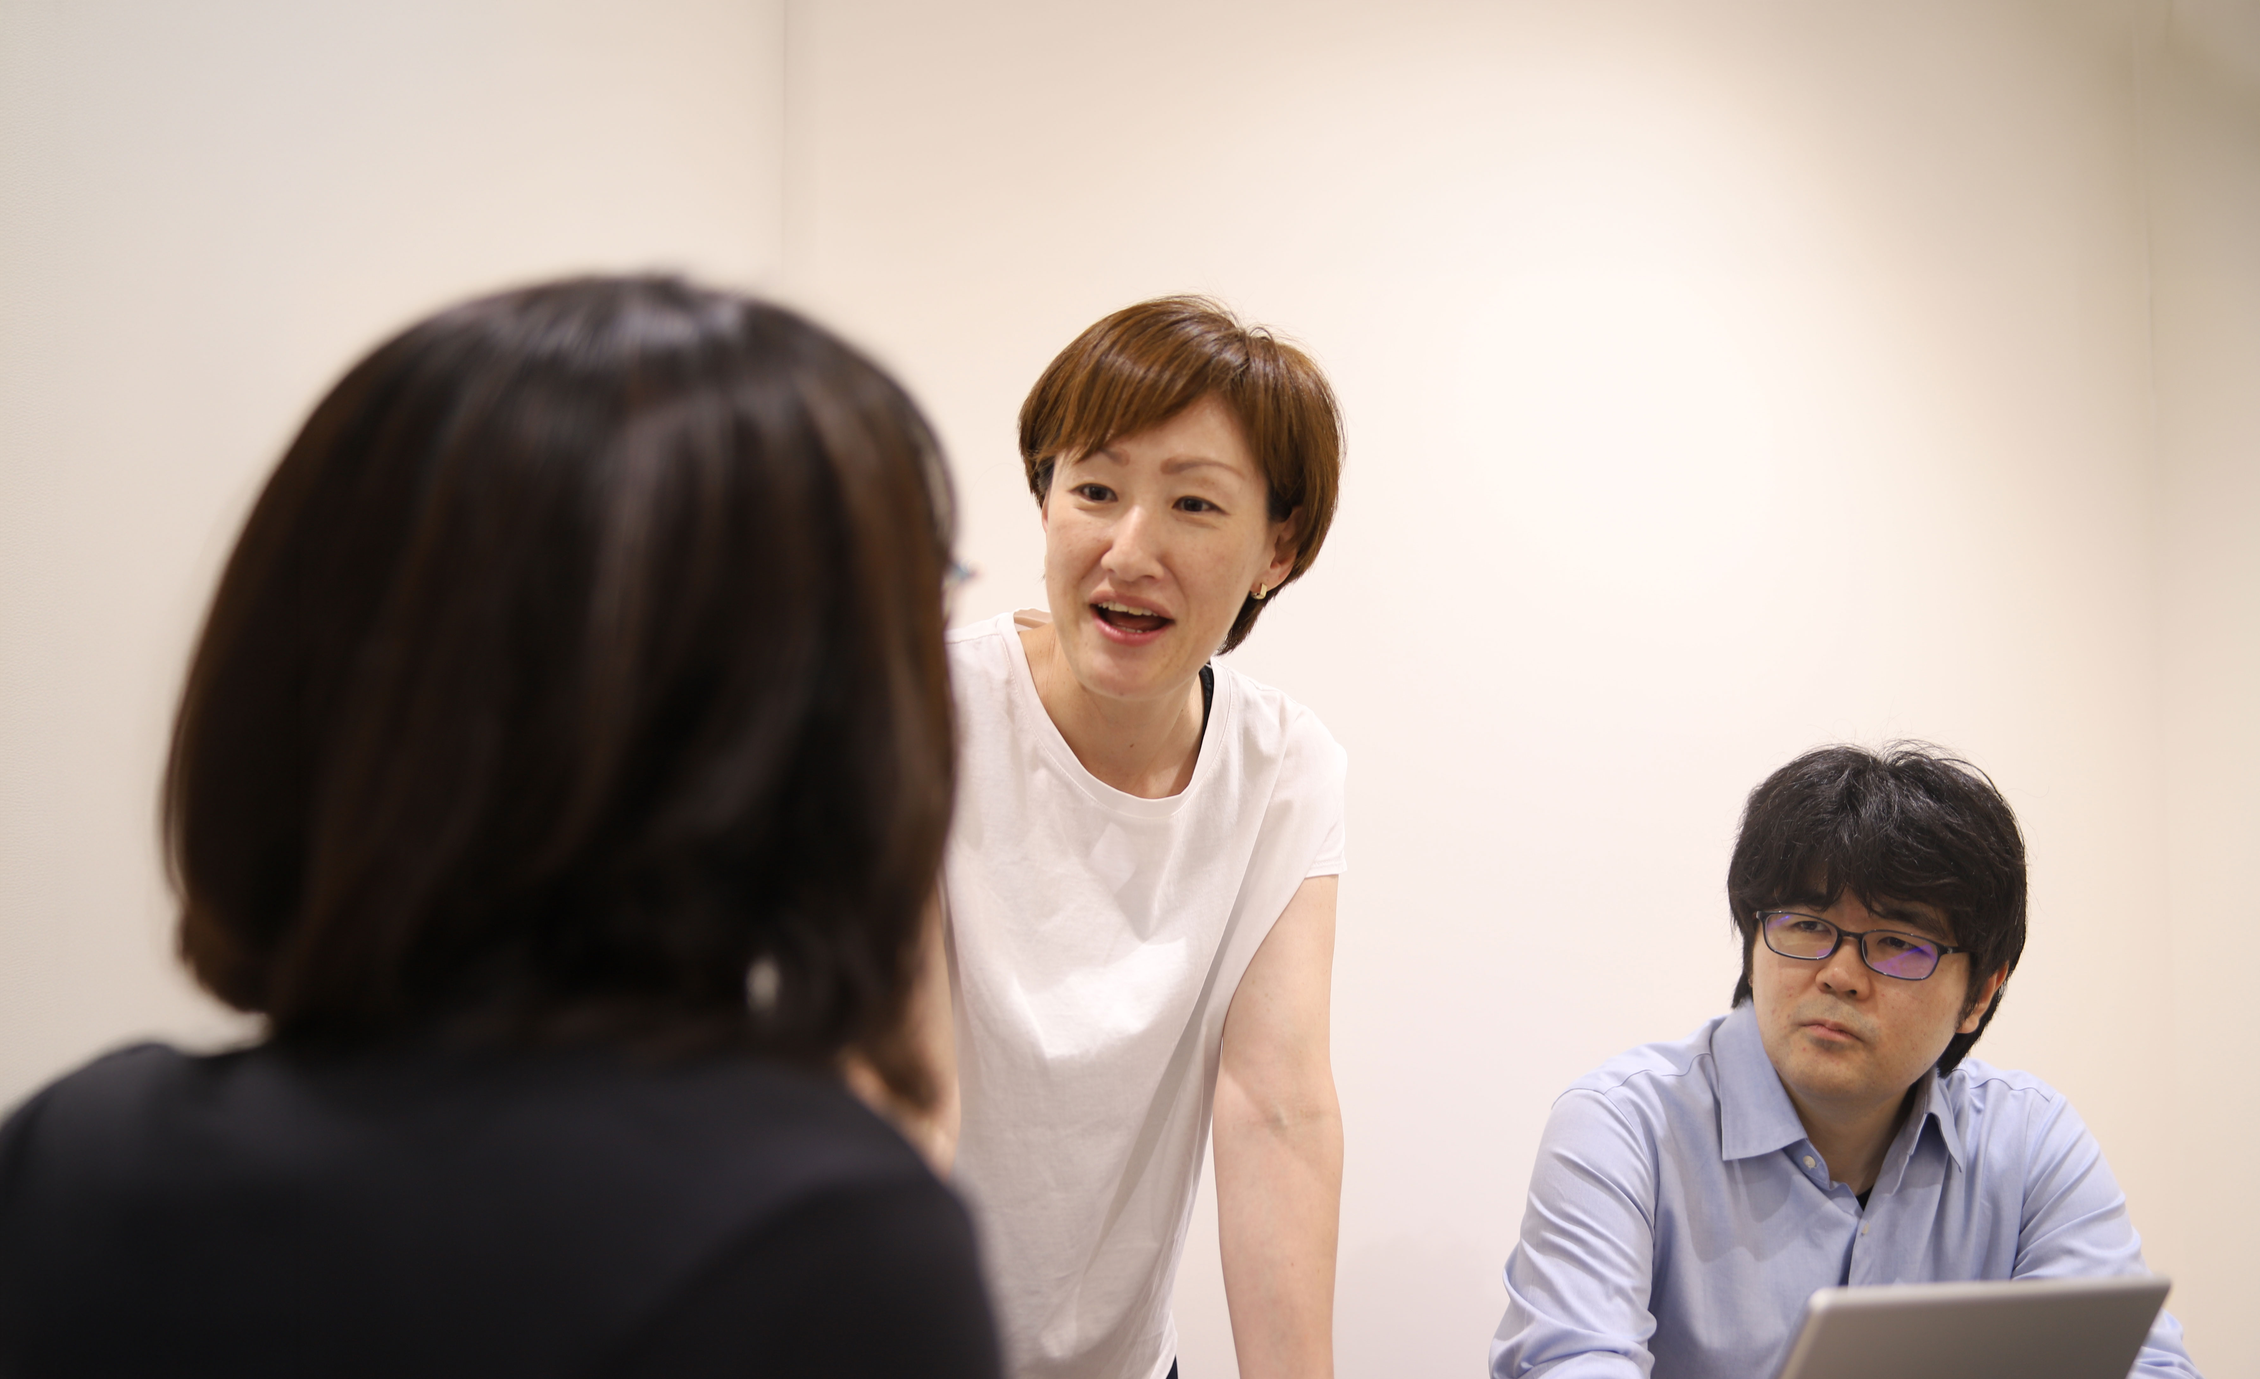
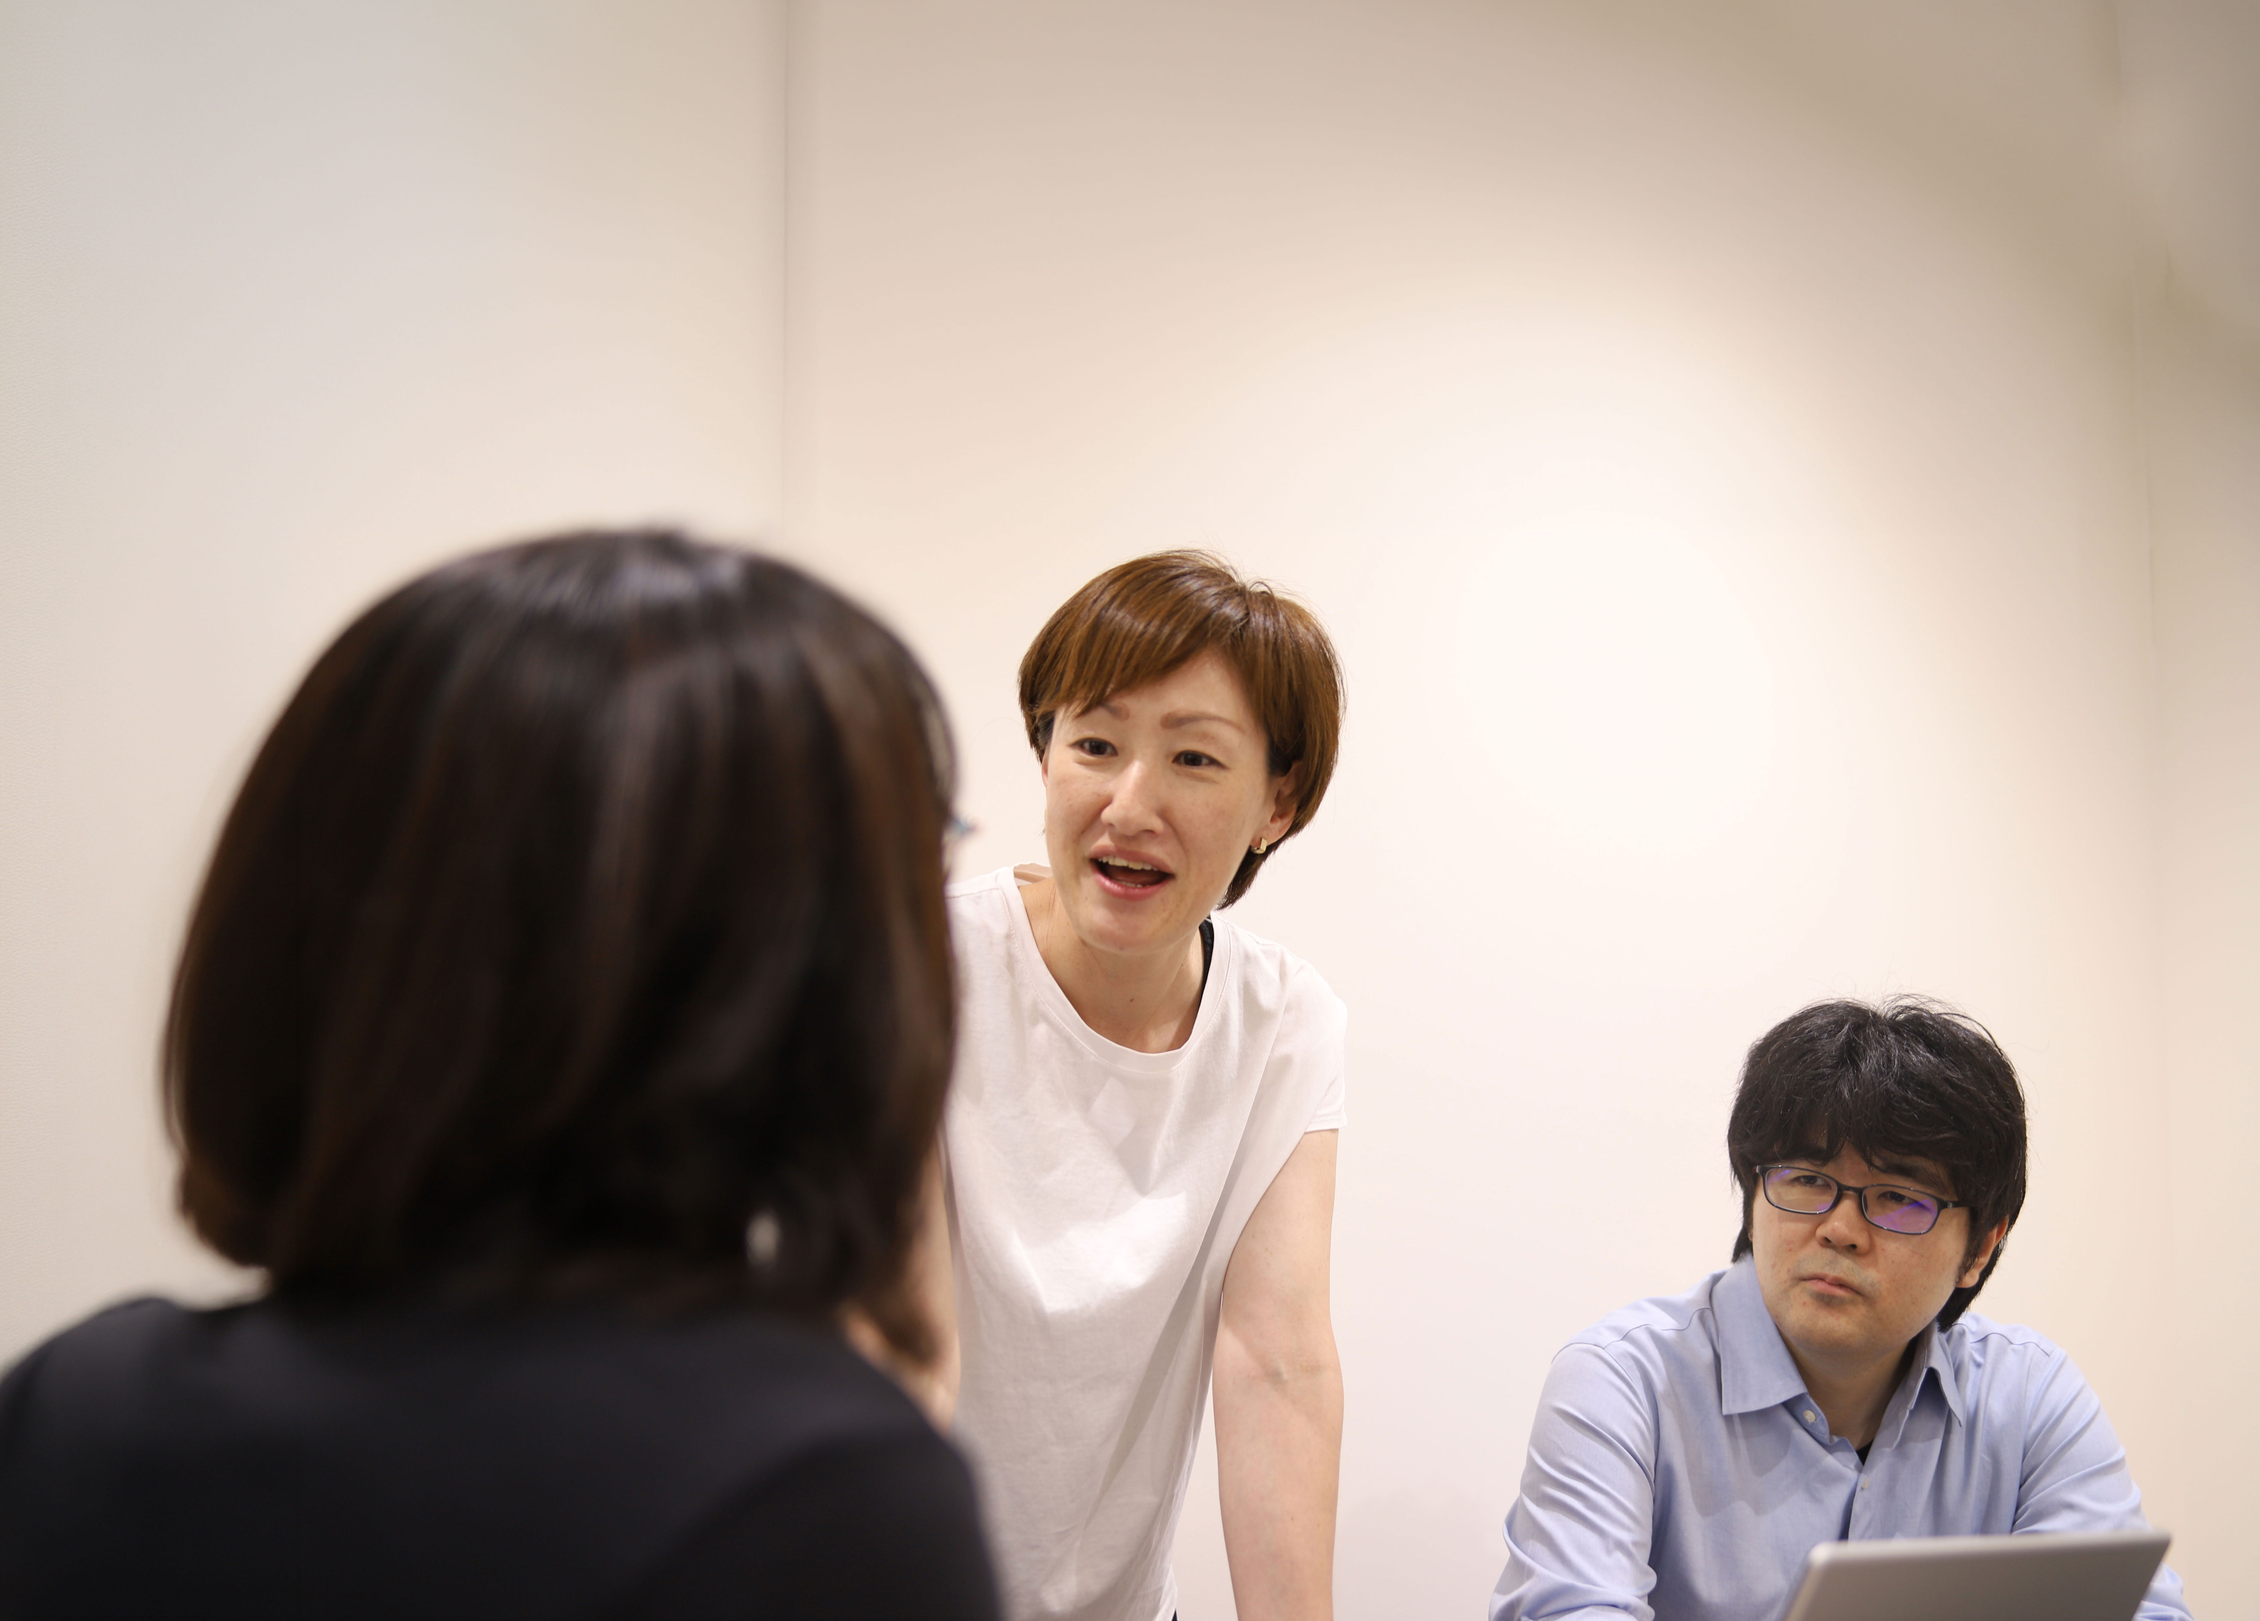
フッター上スライダーの画像を調整・追加
- footer-slide-2/3 の画角を再調整した画像に差し替え
- footer-slide-5(印刷機)を追加し、フッター上スライダーを5枚構成に変更

diff --git a/src/app/components/layout/Layout.tsx b/src/app/components/layout/Layout.tsx
@@ -9,6 +9,7 @@ import footerSlide1 from "../../../assets/footer-slide-1.jpg";
 import footerSlide2 from "../../../assets/footer-slide-2.jpg";
 import footerSlide3 from "../../../assets/footer-slide-3.jpg";
 import footerSlide4 from "../../../assets/footer-slide-4.png";
+import footerSlide5 from "../../../assets/footer-slide-5.jpg";
 
 interface LayoutProps {
   children: React.ReactNode;
@@ -172,6 +173,7 @@ export default function Layout({ children }: LayoutProps) {
                   { img: footerSlide2, width: 510 },
                   { img: footerSlide3, width: 440 },
                   { img: footerSlide4, width: 510 },
+                  { img: footerSlide5, width: 440 },
                 ].map((item, index) => (
                   <div key={index} className="shrink-0 rounded-2xl overflow-hidden" style={{ width: `${item.width}px` }}>
                     <img src={item.img.src} alt={`採用イメージ${index + 1}`} className="w-full aspect-square object-cover" />
